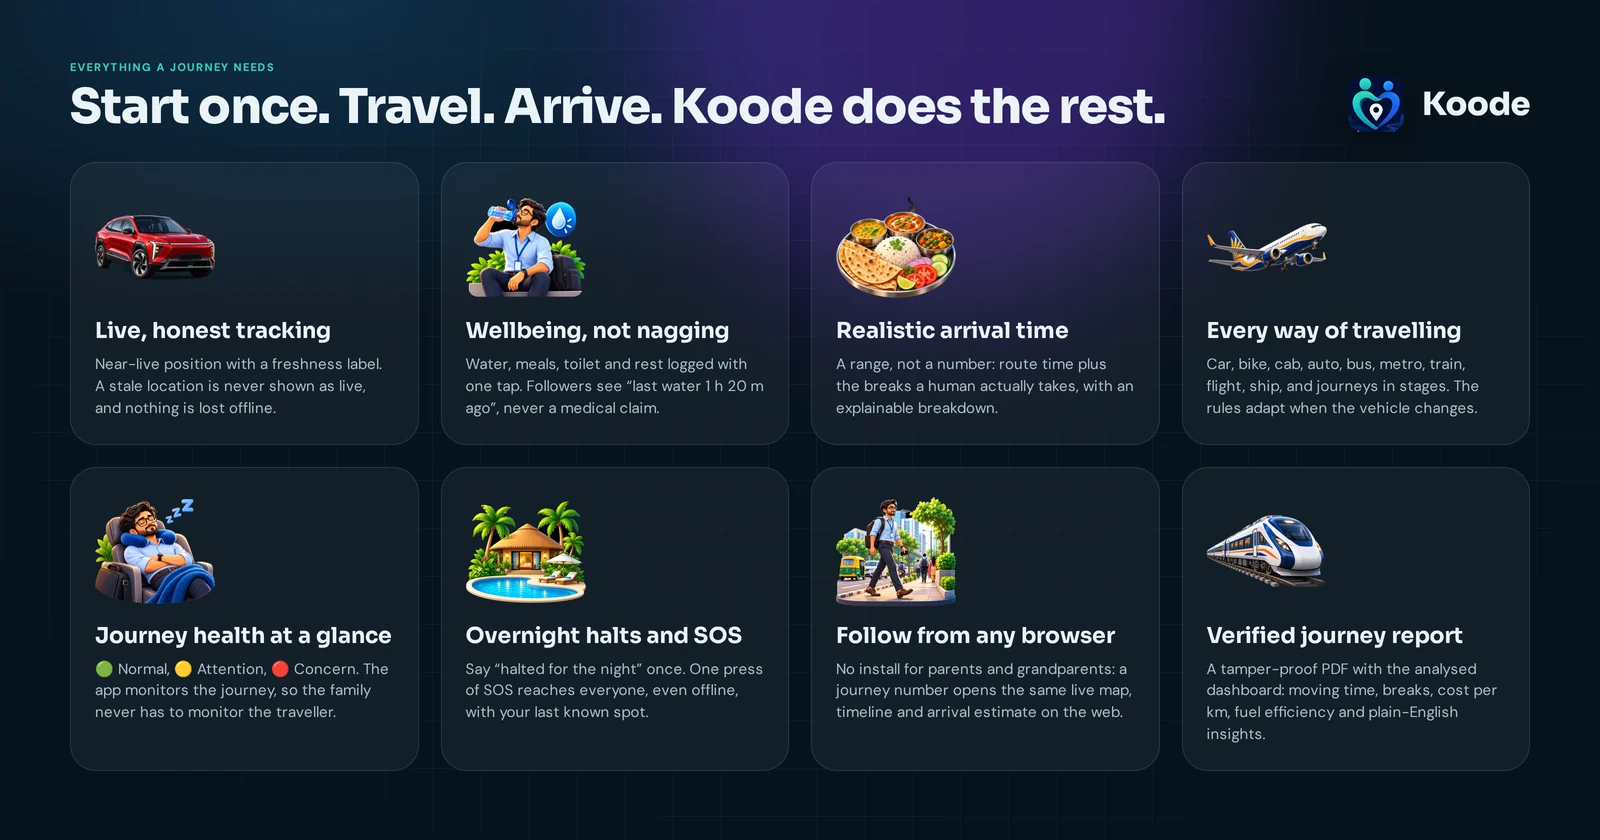
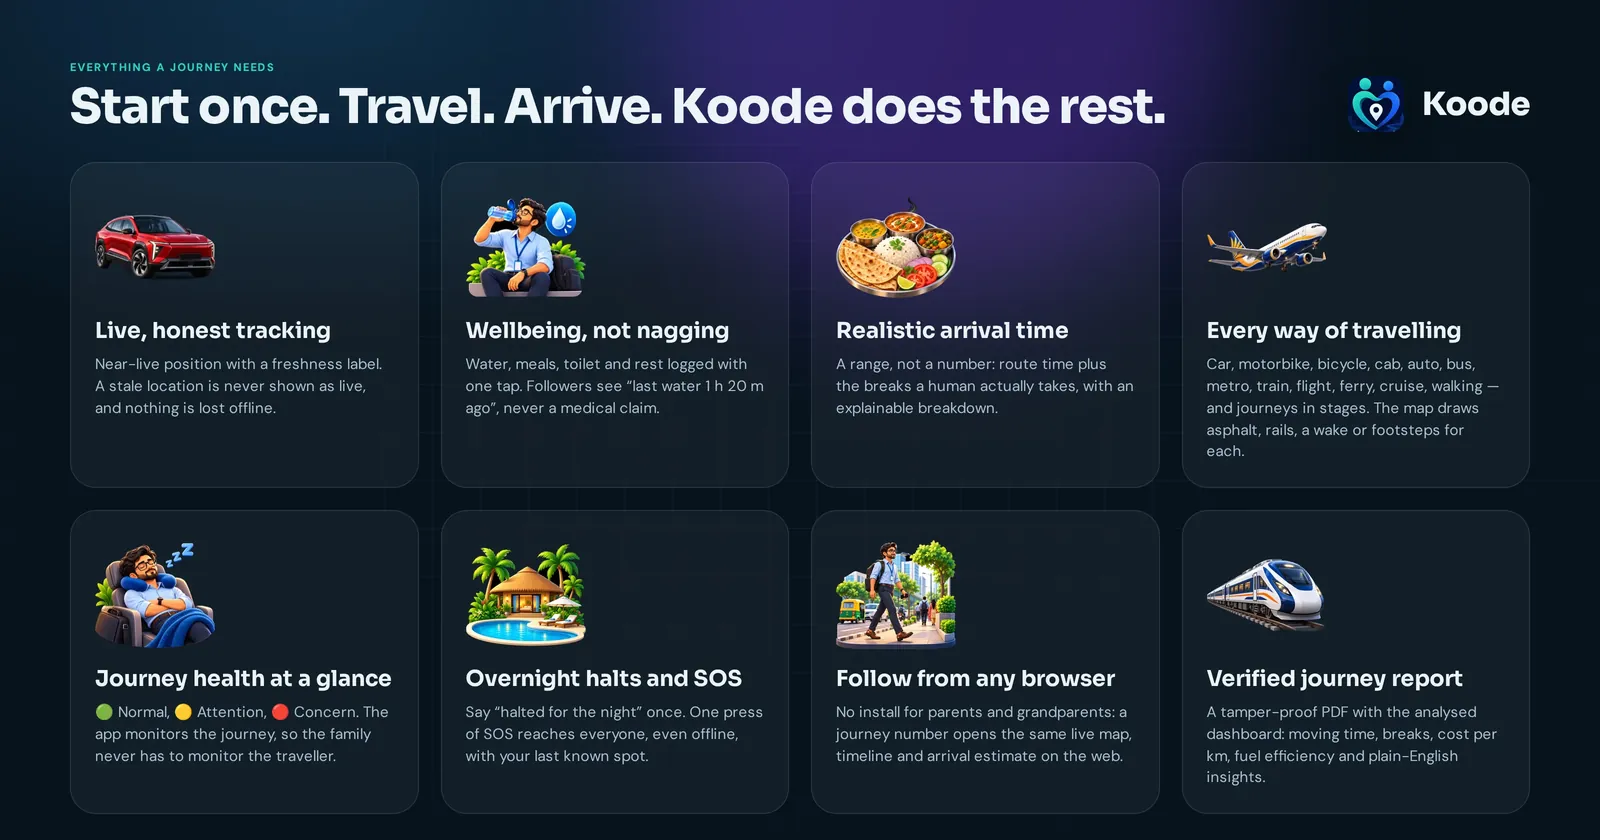
Marketing: a Works-where-you-live slide, and the features slide names every way of travelling and the lines on the map
Claude-Session: https://claude.ai/code/session_01TqddbTtTeKRMaKQ28NH9zX

diff --git a/apps/android/app/src/main/java/com/trippulse/app/data/DataSteward.kt b/apps/android/app/src/main/java/com/trippulse/app/data/DataSteward.kt
@@ -119,7 +119,7 @@ class DataSteward(
             }
         }
         runCatching {
-            db.viewerDao().allFlow().first().forEach { v -> runCatching { push.unregisterFor(v.ref) } }
+            db.viewerDao().allFlow().first().forEach { v -> runCatching { push.unregisterFor(v.accessKey) } }
         }
         runCatching { db.clearAllTables() }
         prefFiles.forEach { name ->
